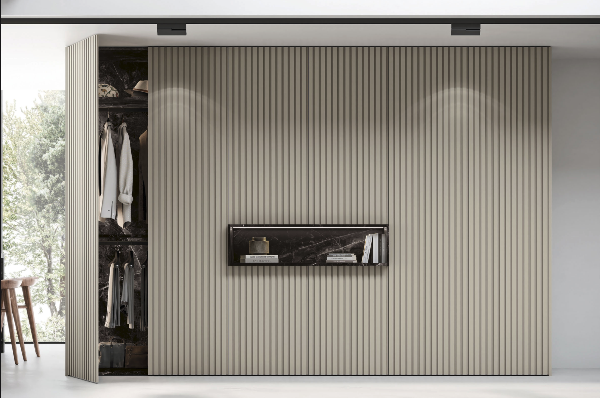
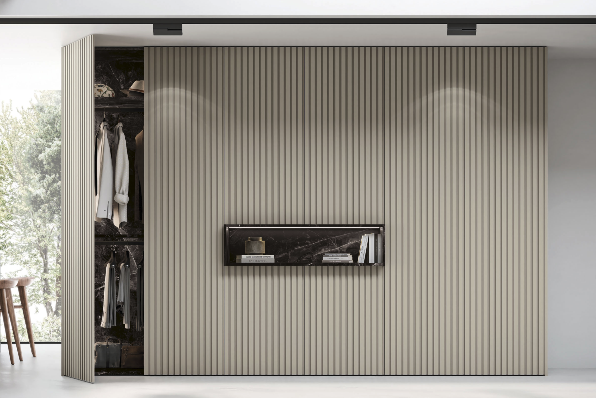
Livorno en paneles Cristal Transparente. Joros en peneles Cristal Ahumad

diff --git a/src/components/calculators/paneles-divisorios-calculator.tsx b/src/components/calculators/paneles-divisorios-calculator.tsx
@@ -27,6 +27,12 @@ const collectionImages: Record<string, string> = {
     'Desi': '/images/paneles/sidon-armarios-panel-desi-600x400.png',
 };
 
+const cristalImages: Record<string, string> = {
+    'Cristal Transparente': '/images/paneles/cristal/sidon-armarios-panel-livorno-corredera-closed-600x400.png',
+    'Cristal Ahumado': '/images/paneles/cristal/sidon-armarios-panel-joros-paralel-600x400.png',
+    'Cristal Fluted (Acanalado)': '/images/paneles/cristal/sidon-armarios-panel-fluted-600x400.png',
+};
+
 
 export const PanelesDivisoriosCalculator: React.FC<PanelesDivisoriosCalculatorProps> = ({ onSave }) => {
     const [pricingModel, setPricingModel] = useState<'coleccion' | 'cristal'>('coleccion');
@@ -81,6 +87,8 @@ export const PanelesDivisoriosCalculator: React.FC<PanelesDivisoriosCalculatorPr
         let total = basePrice;
         
         const doorString = `${doorCount} ${doorCount > 1 ? 'Puertas' : 'Puerta'}`;
+        
+        const finalName = `Panel Divisorio ${openingType} ${selectedKey}`;
         const detailsArray = [doorString, `${measurements.height}x${measurements.width}mm`];
         
         if (measurements.height < 1500) {
@@ -115,10 +123,8 @@ export const PanelesDivisoriosCalculator: React.FC<PanelesDivisoriosCalculatorPr
                 }
             }
         });
-        
-        const finalName = `Panel Divisorio ${openingType} ${selectedKey}`;
 
-        return { total, details: detailsArray.join(', '), name: `Panel Divisorio ${openingType}` };
+        return { total, details: detailsArray.join(', '), name: finalName };
     }, [measurements, openingType, doorCount, panelCollection, panelCristal, panelSupplements, pricingModel, constructedPanelType]);
 
     const handleSaveItem = () => {
@@ -127,11 +133,14 @@ export const PanelesDivisoriosCalculator: React.FC<PanelesDivisoriosCalculatorPr
     };
 
     const currentImage = useMemo(() => {
-        if (pricingModel === 'coleccion' && collectionImages[panelCollection]) {
-            return collectionImages[panelCollection];
+        if (pricingModel === 'coleccion') {
+            return collectionImages[panelCollection] || 'https://placehold.co/600x400.png';
+        }
+        if (pricingModel === 'cristal') {
+            return cristalImages[panelCristal] || 'https://placehold.co/600x400.png';
         }
         return 'https://placehold.co/600x400.png';
-    }, [pricingModel, panelCollection]);
+    }, [pricingModel, panelCollection, panelCristal]);
     
 
     return (
@@ -250,7 +259,7 @@ export const PanelesDivisoriosCalculator: React.FC<PanelesDivisoriosCalculatorPr
             <div className="md:col-span-1 space-y-4">
                  <Image
                     src={currentImage}
-                    alt={pricingModel === 'coleccion' ? panelCollection : 'Panel Divisorio'}
+                    alt={pricingModel === 'coleccion' ? panelCollection : panelCristal}
                     width={600}
                     height={400}
                     className="rounded-md object-cover aspect-[3/2]"
@@ -272,3 +281,5 @@ export const PanelesDivisoriosCalculator: React.FC<PanelesDivisoriosCalculatorPr
         </div>
     );
 }
+
+    
